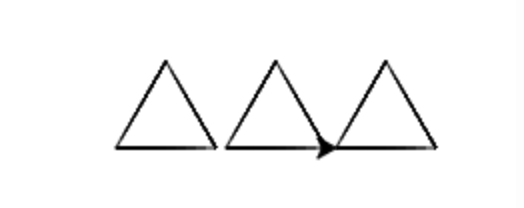
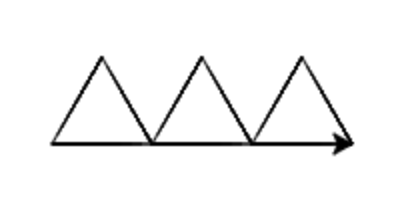
maj scratch a python 2

Changed region(s): [[0.12, 0.2647, 0.9, 0.7647]]

diff --git a/content/docs/SNT_2nde/SNT_index.html b/content/docs/SNT_2nde/SNT_index.html
@@ -80,6 +80,7 @@ bookShowToc: false
   <ul>
     <li>Version pdf du cours python1 <a href="/pdf/SNT/python1_algogrammes.pdf">bases en algorithmique</a></li>
     <li>Cours sur la géolocalisation: <a href="/docs/SNT_2nde/pages/page18/geolocaliser/">Lien</a></li>
+    <li>TP2: de scratch à python, dessiner des figures: <a href="/docs/SNT_2nde/pages/pages_algo/python/python5/">Lien</a></li>
   </ul>
 </p>
 

diff --git a/content/docs/SNT_2nde/pages/pages_algo/python/python5.md b/content/docs/SNT_2nde/pages/pages_algo/python/python5.md
@@ -26,7 +26,7 @@ Nous nous limiterons aux fonctions:
 
 # Premiers tracés
 ## L'interface Scratch + Python de Vittascience
-* Aller sur le site <a href="https://fr.vittascience.com/" target="blank">Vittascience</a>. Puis choisir *Programmer* et *Python*.
+* Aller sur le site <a href="https://fr.vittascience.com/python/" target="blank">Vittascience.com</a>. Puis choisir *Programmer* et *Python*.
 
 Le site propose un éditeur Scratch en ligne (avec des blocs de code).
 
@@ -116,7 +116,7 @@ Vous voyez ici l'interêt d'utiliser une boucle pour répéter plusieurs fois le
 ### Créer ses propres fonctions
 Une fonction permet de mémoriser des blocs de code afin de les organiser et les réutiliser plusieurs fois.
 
-* Remettre les paramètres qui dessinent un triangle simple (3 fois, 120°)
+* Remettre les arguments qui dessinent un triangle simple (3 fois, 120°)
 * Dans le menu *Fonctions*, prendre le premier bloc *Définir*. Modifier le nom, et renommer cette fonction avec `triangle`.
 
 <figure>
@@ -127,7 +127,10 @@ Une fonction permet de mémoriser des blocs de code afin de les organiser et les
 </figure>
 
 * Mettre alors la boucle entière dans cette fonction. EXECUTER... il ne se passe rien.
-* Revenir dans le menu *Fonctions* et aller chercher le bloc de code appelé `triangle`. Ajouter ce bloc et EXECUTER... voilà qui devrait afficher le triangle. Vous venez de programmer votre propre fonction, puis vous l'avez appelé avec `nom()`.
+* Revenir dans le menu *Fonctions* et:
+  * aller chercher le bloc de code appelé `triangle`. 
+  * Ajouter ce bloc dans la programme, à la suite
+  * et EXECUTER... voilà qui devrait afficher le triangle. Vous venez de programmer votre propre fonction, puis vous l'avez appelé avec son nom,  `triangle()`.
 * Recopiez le script python correspondant dans votre cahier.
 
 ### Réutiliser une fonction
@@ -149,9 +152,18 @@ Voici un extrait de la suite du script qui vous permettra de créer une figurre 
 </div>
 </figure>
 
-Vous aurez besoin pour cela de réutiliser votre fonction `triangle`.
+*Remarque: Vous aurez besoin pour cela de réutiliser votre fonction `triangle`.*
 
-> **Défi 4:** Réaliser maintenant la figure ci-dessous:
+Une fois le défi réalisé, recopiez le script dans votre cahier.
+
+> **Défi 4:** Réaliser maintenant l'une des figures ci-dessous:
+
+<figure>
+  <div>
+    <img src="../images/triangleFigure1.png">
+
+</div>
+</figure>
 
 <figure>
   <div>
